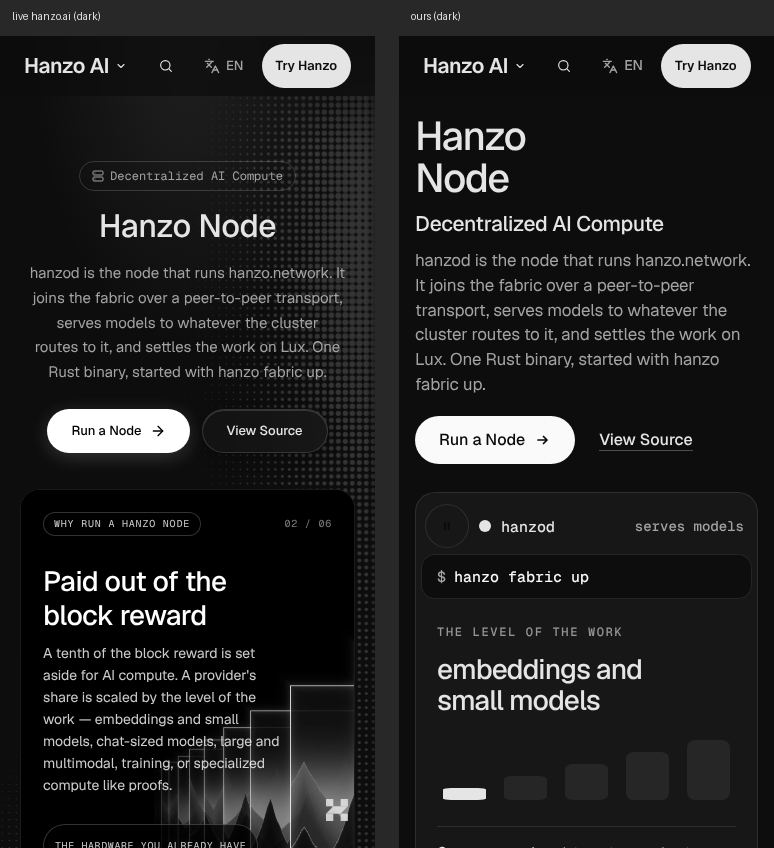
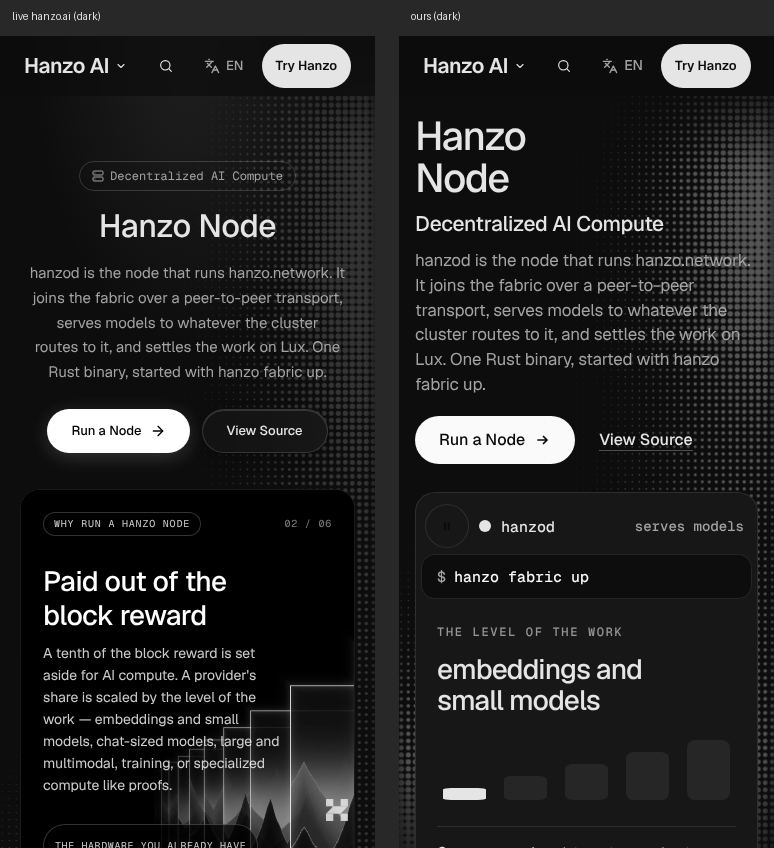
node: dark mode — live's hero halftone (HeroDither) under the hero in dark; checks re-run (darkcheck, lightcheck OK, copycheck 0, 0 errors, no sideways scroll)
Claude-Session: https://claude.ai/code/session_01P5YBdv7StJZXmK5oNtoxtW

Changed region(s): [[0.8372, 0.1226, 1.0, 0.9811], [0.4961, 0.8278, 0.5581, 1.0]]

diff --git a/components/pages/cloud/Node.jsx b/components/pages/cloud/Node.jsx
@@ -36,6 +36,7 @@ import { Sheet } from '../../v2/SpecDrawer';
 import LaunchClose, { Arr } from '../../v2/LaunchClose';
 import LineMask from '../../v2/LineMask';
 import LivePause, { usePause } from '../../v2/LivePause';
+import HeroDither from '../HeroDither';
 import './Node.css';
 
 const useIso = typeof window === 'undefined' ? useEffect : useLayoutEffect;
@@ -366,6 +367,7 @@ export default function Node() {
   return (
     <main className="lx nd">
       <section ref={run} className="nd-run" data-morph-target data-ask-name="Hanzo Node">
+        <HeroDither />
         <div className="lx-wrap nd-run-grid">
           <div className="nd-run-obj">
             <div className="nd-run-stick">

diff --git a/components/pages/cloud/Node.css b/components/pages/cloud/Node.css
@@ -326,3 +326,7 @@ html:not(.light) .nd .nd-cmd { box-shadow: inset 0 0 0 1px var(--border); }
 }
 html:not(.light) .nd .nd-mac { box-shadow: inset 0 0 0 1px var(--border); }
 html:not(.light) .nd .cf-paste-box { box-shadow: inset 0 0 0 1px var(--border); }
+/* live's hero halftone (components/pages/HeroDither, dark only): the run section is the hero and the chapters together,
+   so the field covers its first screen, under the machine and the words */
+html:not(.light) .nd .nd-run { position: relative; }
+html:not(.light) .nd .nd-run > .hz-dither { bottom: auto; height: calc(100svh - 40px); }

diff --git a/docs/review/node.md b/docs/review/node.md
@@ -2,7 +2,7 @@
 
 Verdict: 7/10
 Ready: 7 Nov, held up next to /api and /affiliate (no score). The round-5 Node.jsx (one machine from hero to chapter six, calm hero readout, "A tenth" as the one big statement, Hanzo's words only) had been committed without its CSS, so the page rendered unstyled; Node.css is rewritten for it: the machine pins on the left and stages each chapter's one key thing at size while the chapter beside it is in ink and the rest wait at 32%, the h1 reads from the first frame, phones stack each chapter with its own small machine, reduced motion holds every final frame with no hydration mismatch from the page. taste/unique/parity OK (37/37 text, 4/4 links); 0 console errors, no overlap at 1470x801 and 375x812, nothing past 320. Shared, not this page: phone header ask, LaunchClose reduced-motion hydration (docs/requests/node.md 7-11).
-Dark: 8 Nov, matches live hanzo.ai in dark side by side (docs/gallery/node/dark-*.jpg); darkcheck OK, lightcheck OK, copycheck 0. (darkcheck lists the lit ladder bar at 375: the one ink block, light in dark as Hanzo's primary. The shared .lx kit and LaunchClose/SpecDrawer pin light values in both modes; overridden page-locally under .nd.)
+Dark: 8 Nov, matches live hanzo.ai in dark side by side (docs/gallery/node/dark-*.jpg); darkcheck OK, lightcheck OK, copycheck 0. (darkcheck lists the lit ladder bar at 375: the one ink block, light in dark as Hanzo's primary. The shared .lx kit and LaunchClose/SpecDrawer pin light values in both modes; overridden page-locally under .nd.) Live's hero halftone (HeroDither, ported from hanzo.ai's own Dither) sits under the hero in dark, as live draws it; bright mode unchanged.
 First complaint: "The first thing I see is a grey control panel: four boxes inside a box, twenty little labels and five black chips all blinking for attention next to the title. Then I scroll and get the same black terminal for four screens, mostly empty. It's alive, but it isn't premium yet."
 
 Walked 7 Nov 2026 on the dev server at 1470x801 and 375x812 (recorder pass at both sizes, every scroll stop a/b; 100 ms frame sampling of the arrival at both sizes; hover and press on every page control; the drive control and the 01–06 chapter dashes clicked; "See the levels" sheet opened and closed with Esc; reduced motion at both sizes; JS off; a 45-stop Tab crawl; /network and /registry opened as neighbours). Frames: `node/r2-hero-panel.jpg`, `node/r2-empty-terminal.jpg`, `node/r2-reduced-motion-hero.jpg`.
